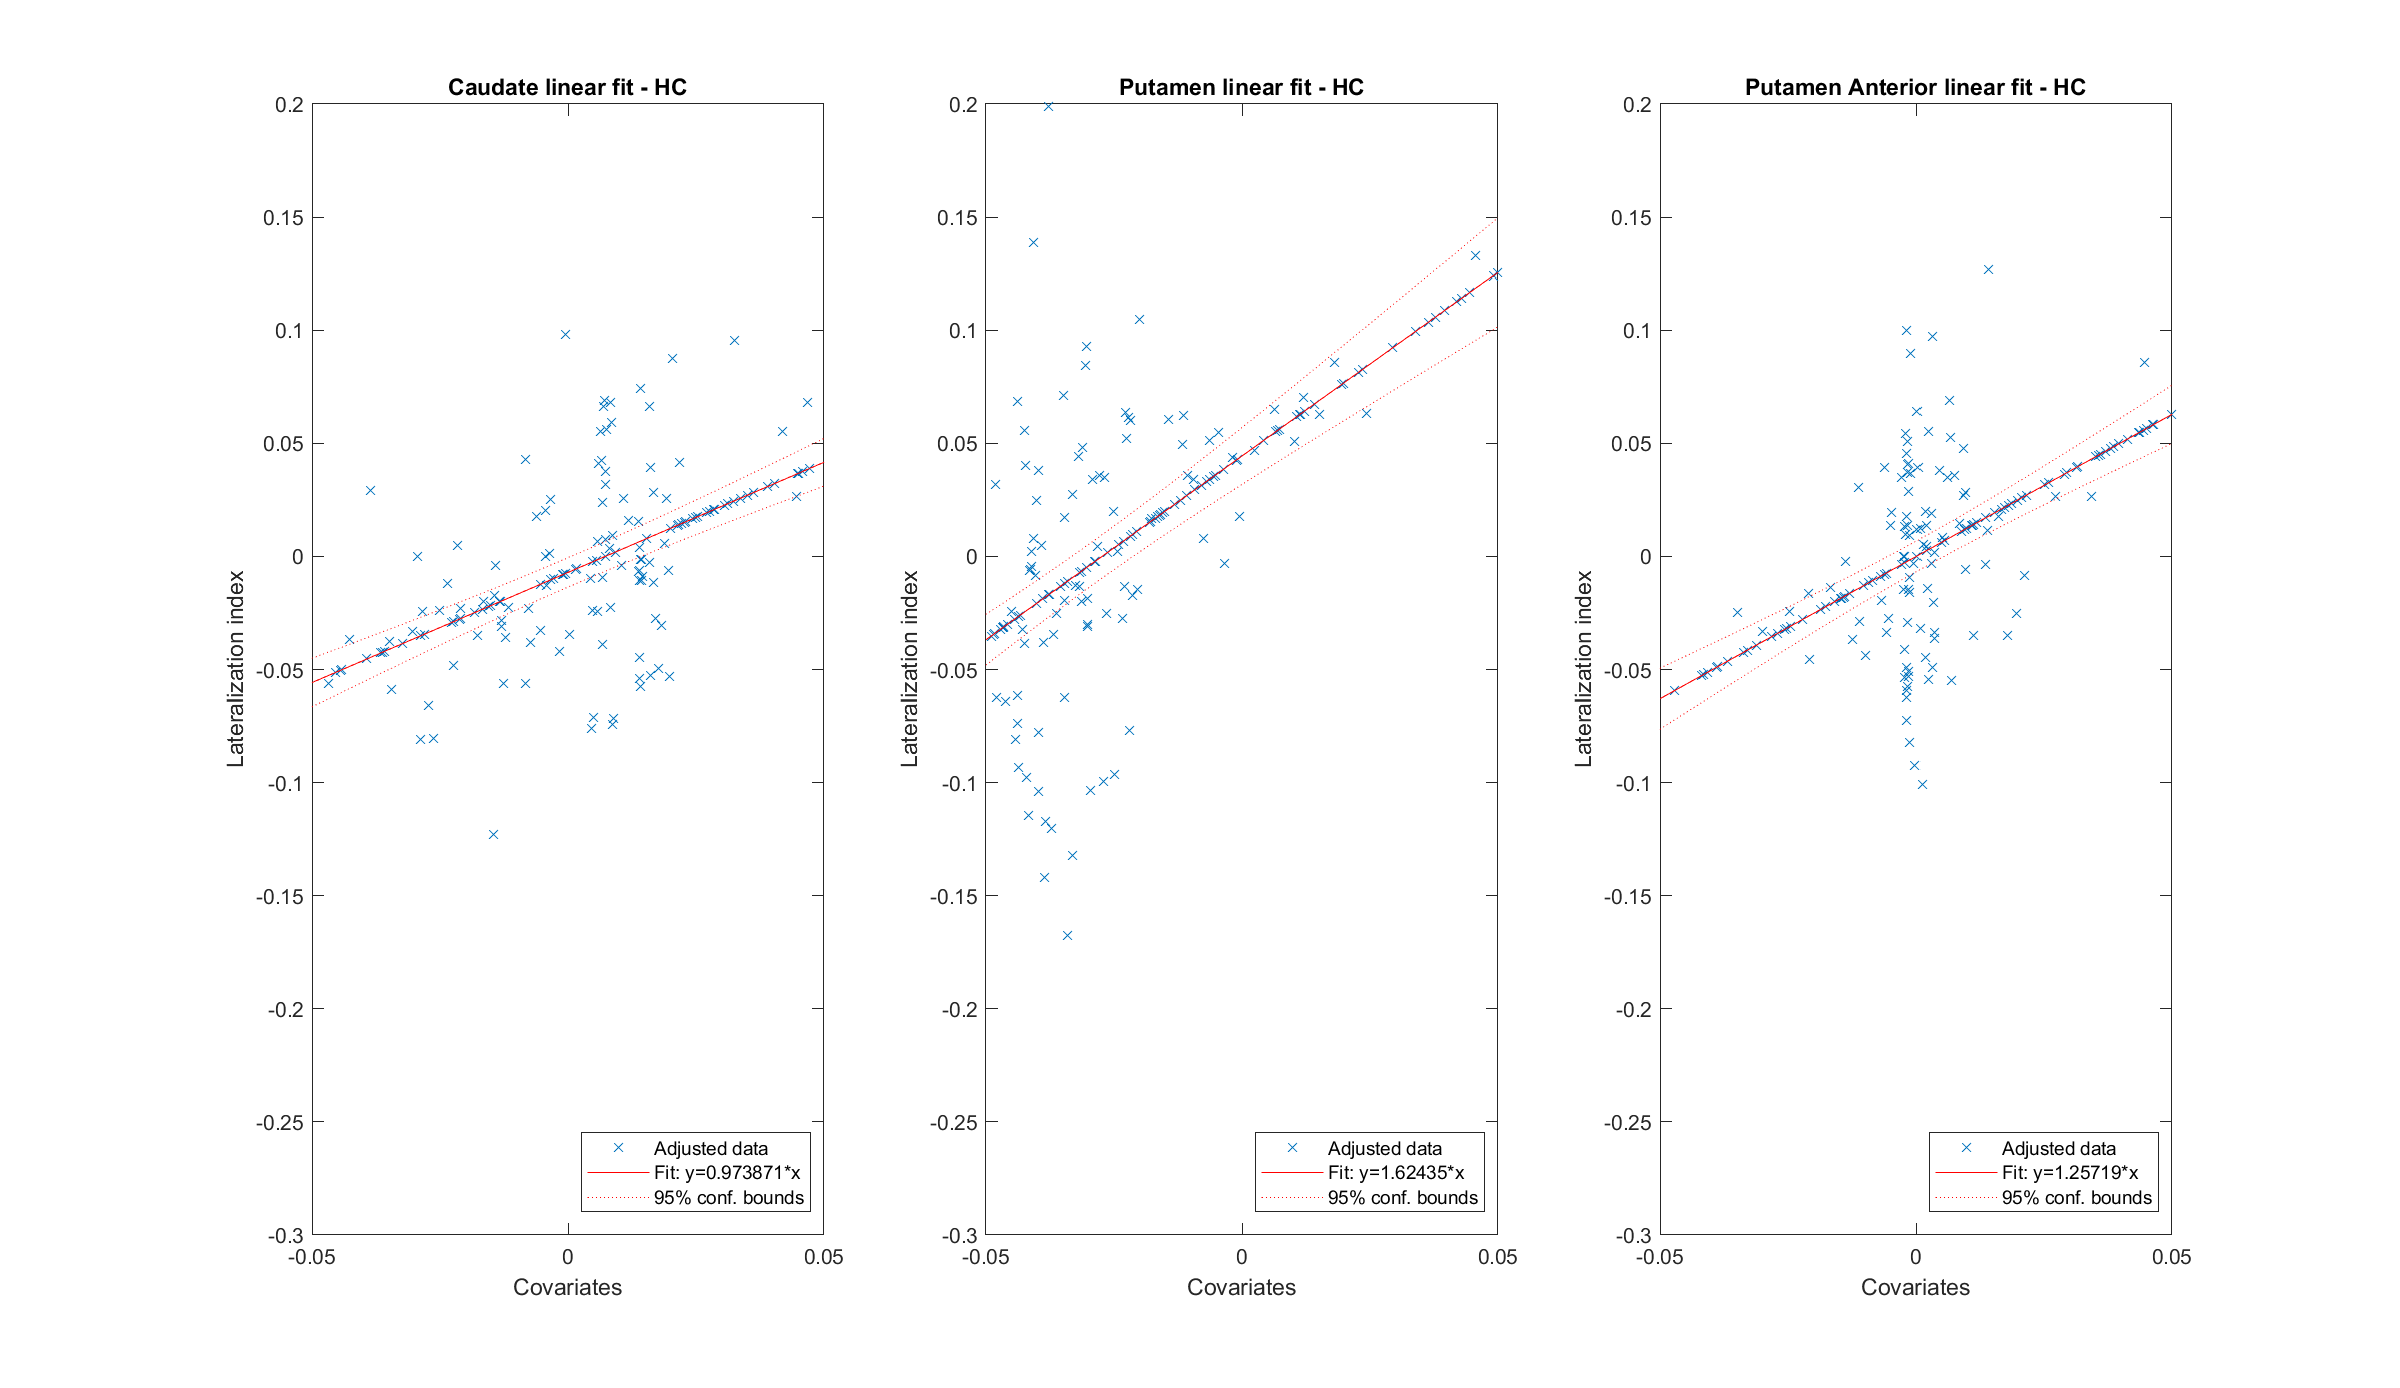
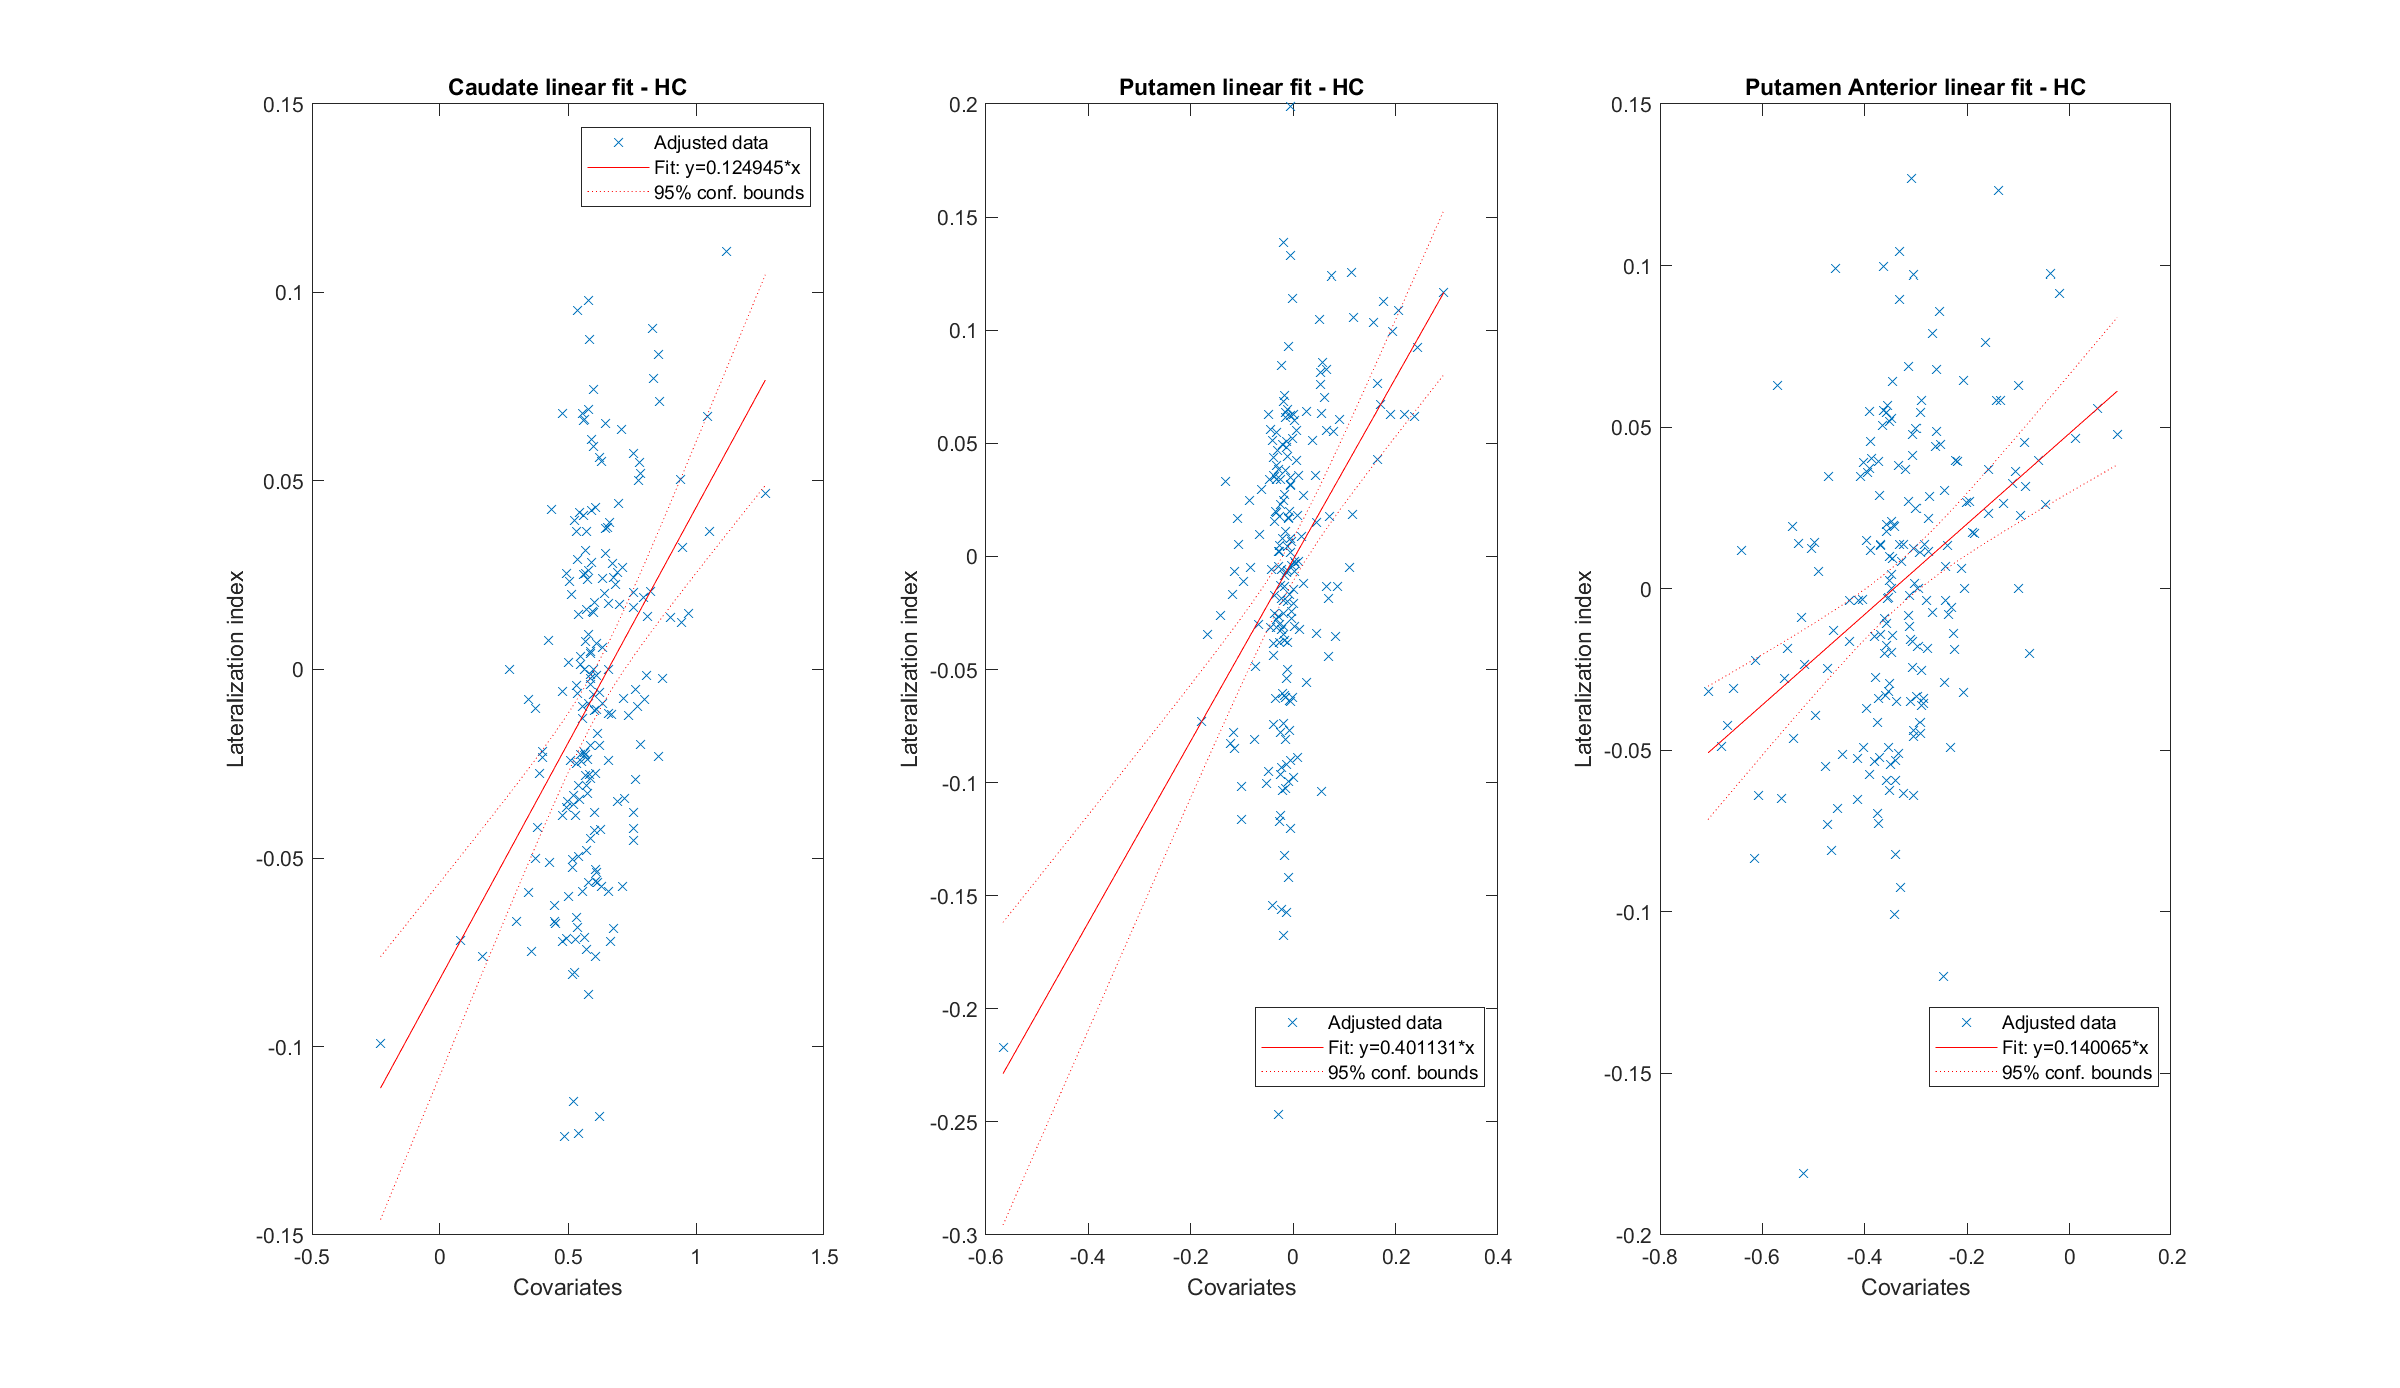
Sistemato covariates- symptoms nel fit

diff --git a/hm_biomarkers_new_version.m b/hm_biomarkers_new_version.m
@@ -638,6 +638,7 @@ end
 symptoms_to_save_hc = unique(symptoms_to_save_hc);
 
 %%  - PD - indirect data
+idx_tot = [idx_covariates,idx_symptoms];
 covariates_pd = data_pd(:, idx_covariates); % age, weight, height,  np test + mcatot
 covariates_pd.('Caudate lat coeff') = LATERALIZATION_coeff.CAUDATE.PD;
 covariates_pd.('Putamen lat coeff') = LATERALIZATION_coeff.PUTAMEN.PD;
@@ -710,34 +711,37 @@ symptoms_to_save_pd = unique(symptoms_to_save_pd);
 
 %% LINEAR REGRESSION
 %% - HC
-covariates_hc_array = table2array(symptoms_hc(:,contains(symptoms_hc.Properties.VariableNames,symptoms_to_save_hc)));
+symptoms_hc_array = table2array(symptoms_hc(:,contains(symptoms_hc.Properties.VariableNames,symptoms_to_save_hc)));
+covariates_hc_array = table2array(covariates_hc(:,contains(covariates_hc.Properties.VariableNames,covariates_to_save_hc)));
+
+regressors_hc_array = [covariates_hc_array,symptoms_hc_array];
 
 figure(25)
 set(gcf, 'Position', get(0, 'Screensize'));
 
 subplot(131)
-model_caud_hc = fitlm(covariates_hc_array,NOT_ABS.LATERALIZATION_coeff.CAUDATE.HC,'interactions');
+model_caud_hc = fitlm(regressors_hc_array,NOT_ABS.LATERALIZATION_coeff.CAUDATE.HC);
 plot(model_caud_hc)
-xlim([-0.05 0.05])
-ylim([-0.3 0.2])
+% xlim([-0.05 0.05])
+% ylim([-0.3 0.2])
 xlabel('Covariates')
 ylabel('Lateralization index')
 title('Caudate linear fit - HC')
 
 subplot(132)
-model_put_hc = fitlm(covariates_hc_array,NOT_ABS.LATERALIZATION_coeff.PUTAMEN.HC,'interactions');
+model_put_hc = fitlm(regressors_hc_array,NOT_ABS.LATERALIZATION_coeff.PUTAMEN.HC);
 plot(model_put_hc)
-xlim([-0.05 0.05])
-ylim([-0.3 0.2])
+% xlim([-0.05 0.05])
+% ylim([-0.3 0.2])
 xlabel('Covariates')
 ylabel('Lateralization index')
 title('Putamen linear fit - HC')
 
 subplot(133)
-model_put_ant_hc = fitlm(covariates_hc_array,NOT_ABS.LATERALIZATION_coeff.PUTAMEN_ANT.HC,'interactions');
+model_put_ant_hc = fitlm(regressors_hc_array,NOT_ABS.LATERALIZATION_coeff.PUTAMEN_ANT.HC);
 plot(model_put_ant_hc)
-xlim([-0.05 0.05])
-ylim([-0.3 0.2])
+% xlim([-0.05 0.05])
+% ylim([-0.3 0.2])
 xlabel('Covariates')
 ylabel('Lateralization index')
 title('Putamen Anterior linear fit - HC')
@@ -750,15 +754,16 @@ anova_put_hc = anova(model_put_hc,'summary');
 anova_put_ant_hc =  anova(model_put_ant_hc,'summary');
 
 %% - PD
-covariates_pd_array = table2array(covariates_pd(:,contains(covariates_pd.Properties.VariableNames,symptoms_to_save_hc)));
-% EXCLUDE = [2,3,7,10,13,20,25,26,40];
-% covariates_pd(:,EXCLUDE) = [];
+symptoms_pd_array = table2array(symptoms_pd(:,contains(symptoms_pd.Properties.VariableNames,symptoms_to_save_pd)));
+covariates_pd_array = table2array(covariates_pd(:,contains(covariates_pd.Properties.VariableNames,covariates_to_save_hc)));
+
+regressors_pd_array = [covariates_pd_array,symptoms_pd_array];
 
 figure(26)
 set(gcf, 'Position', get(0, 'Screensize'));
 
 subplot(131)
-model_caud_pd = fitlm(covariates_pd_array,NOT_ABS.LATERALIZATION_coeff.CAUDATE.PD);
+model_caud_pd = fitlm(regressors_pd_array,NOT_ABS.LATERALIZATION_coeff.CAUDATE.PD);
 plot(model_caud_pd)
 % xlim([-0.5 0.6])
 % ylim([-0.6 0.8])
@@ -767,7 +772,7 @@ ylabel('Lateralization index')
 title('Caudate linear fit - PD')
 
 subplot(132)
-model_put_pd = fitlm(covariates_pd_array,NOT_ABS.LATERALIZATION_coeff.PUTAMEN.PD);
+model_put_pd = fitlm(regressors_pd_array,NOT_ABS.LATERALIZATION_coeff.PUTAMEN.PD);
 plot(model_put_pd)
 % xlim([-0.5 0.6])
 % ylim([-0.6 0.8])
@@ -776,7 +781,7 @@ ylabel('Lateralization index')
 title('Putamen linear fit - PD')
 
 subplot(133)
-model_put_ant_pd = fitlm(covariates_pd_array,NOT_ABS.LATERALIZATION_coeff.PUTAMEN_ANT.PD);
+model_put_ant_pd = fitlm(regressors_pd_array,NOT_ABS.LATERALIZATION_coeff.PUTAMEN_ANT.PD);
 plot(model_put_ant_pd)
 % xlim([-0.5 0.6])
 % ylim([-0.6 0.8])
